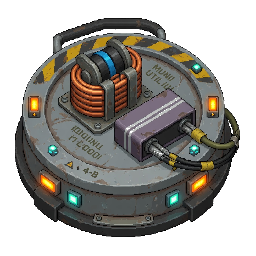
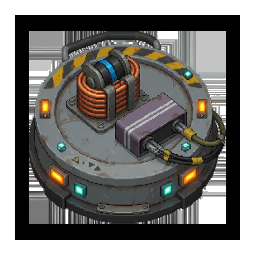
fix(weapon-vfx): remove baked labels from signal flood candidate
Product law forbids text in runtime sprites; re-key candidate after
label-stripping edit and refresh hashes.

diff --git a/docs/weapon_vfx/WEAPON_VFX_BATCH_1_RECEIPT.md b/docs/weapon_vfx/WEAPON_VFX_BATCH_1_RECEIPT.md
@@ -26,9 +26,11 @@ Manifest status for these three: **`concept_generated`** (not runtime-integrated
 
 ## Known candidate gaps (honest)
 
-- Deployables are **single-frame** heroes; manifest allows 3 frames (inactive / active / expended) — multi-state strips deferred to a follow-up after owner silhouette OK.
-- Background keying is automated near-white; residual fringe may need hand clean before intake.
-- Readability at 16–32px projectile scale needs owner/device check.
+- Deployables are **single-frame** heroes; manifest allows 3 frames (inactive / active / expended) — multi-state strips deferred after owner silhouette OK.
+- `deployable_signal_flood` source pass had **baked text** (“SIGNAL FLOOD”); re-edit without labels required before intake (product law: no text in runtime sprites).
+- Mirror candidate may retain checker/edge fringe after keying — clean alpha before intake.
+- Projectile is the cleanest silhouette; verify at 16–32px gameplay scale.
+- Style is more illustrated 2.5D than nearest-neighbor city packs — owner may request pixel pass for cohesion.
 
 ## Explicit non-claims
 
